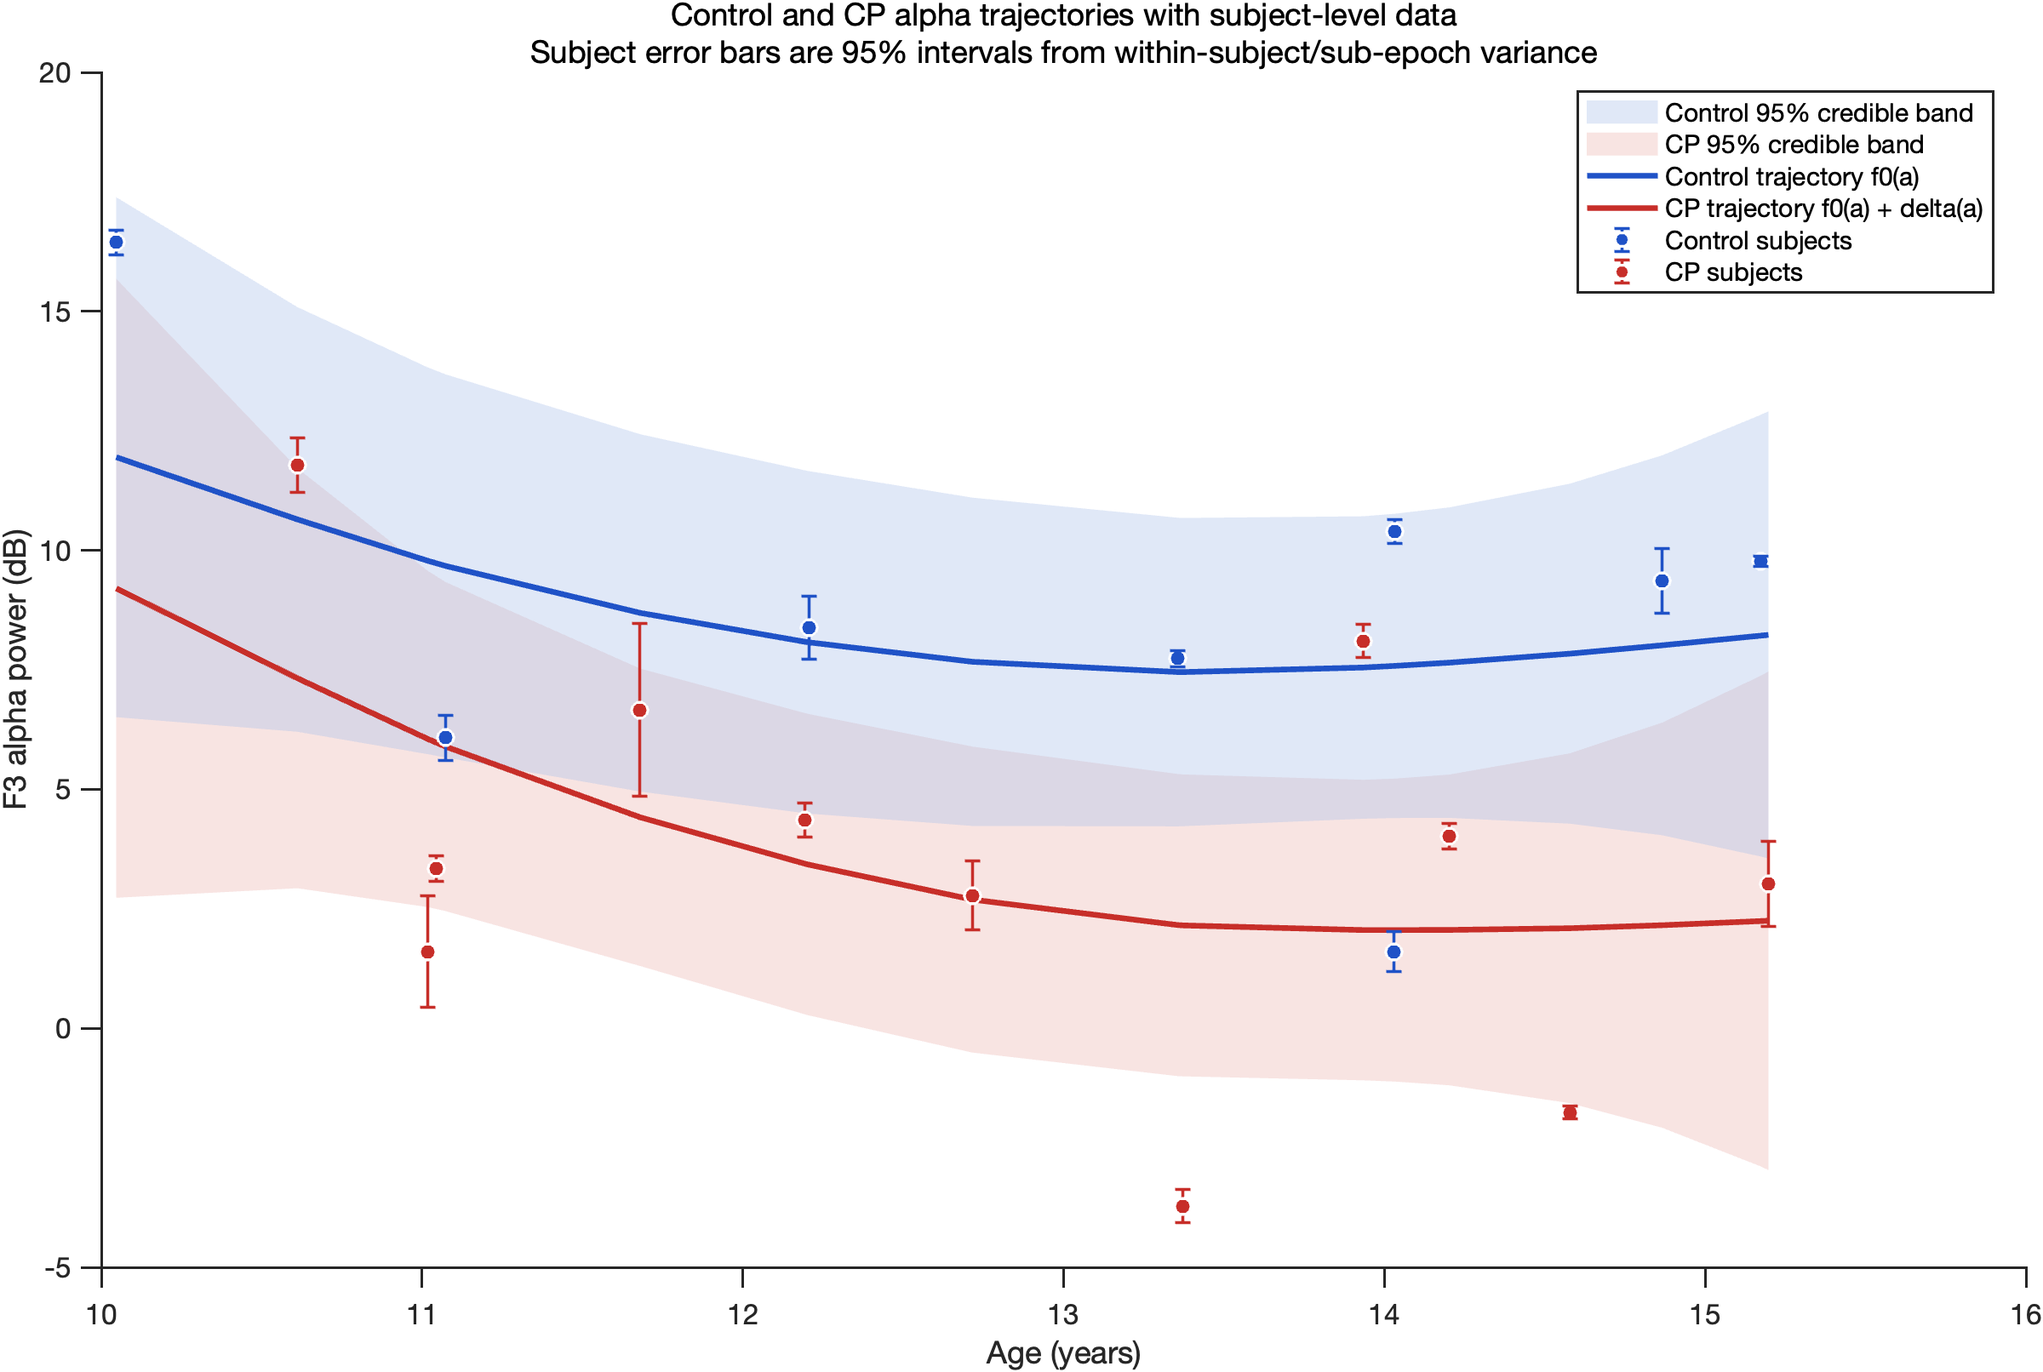
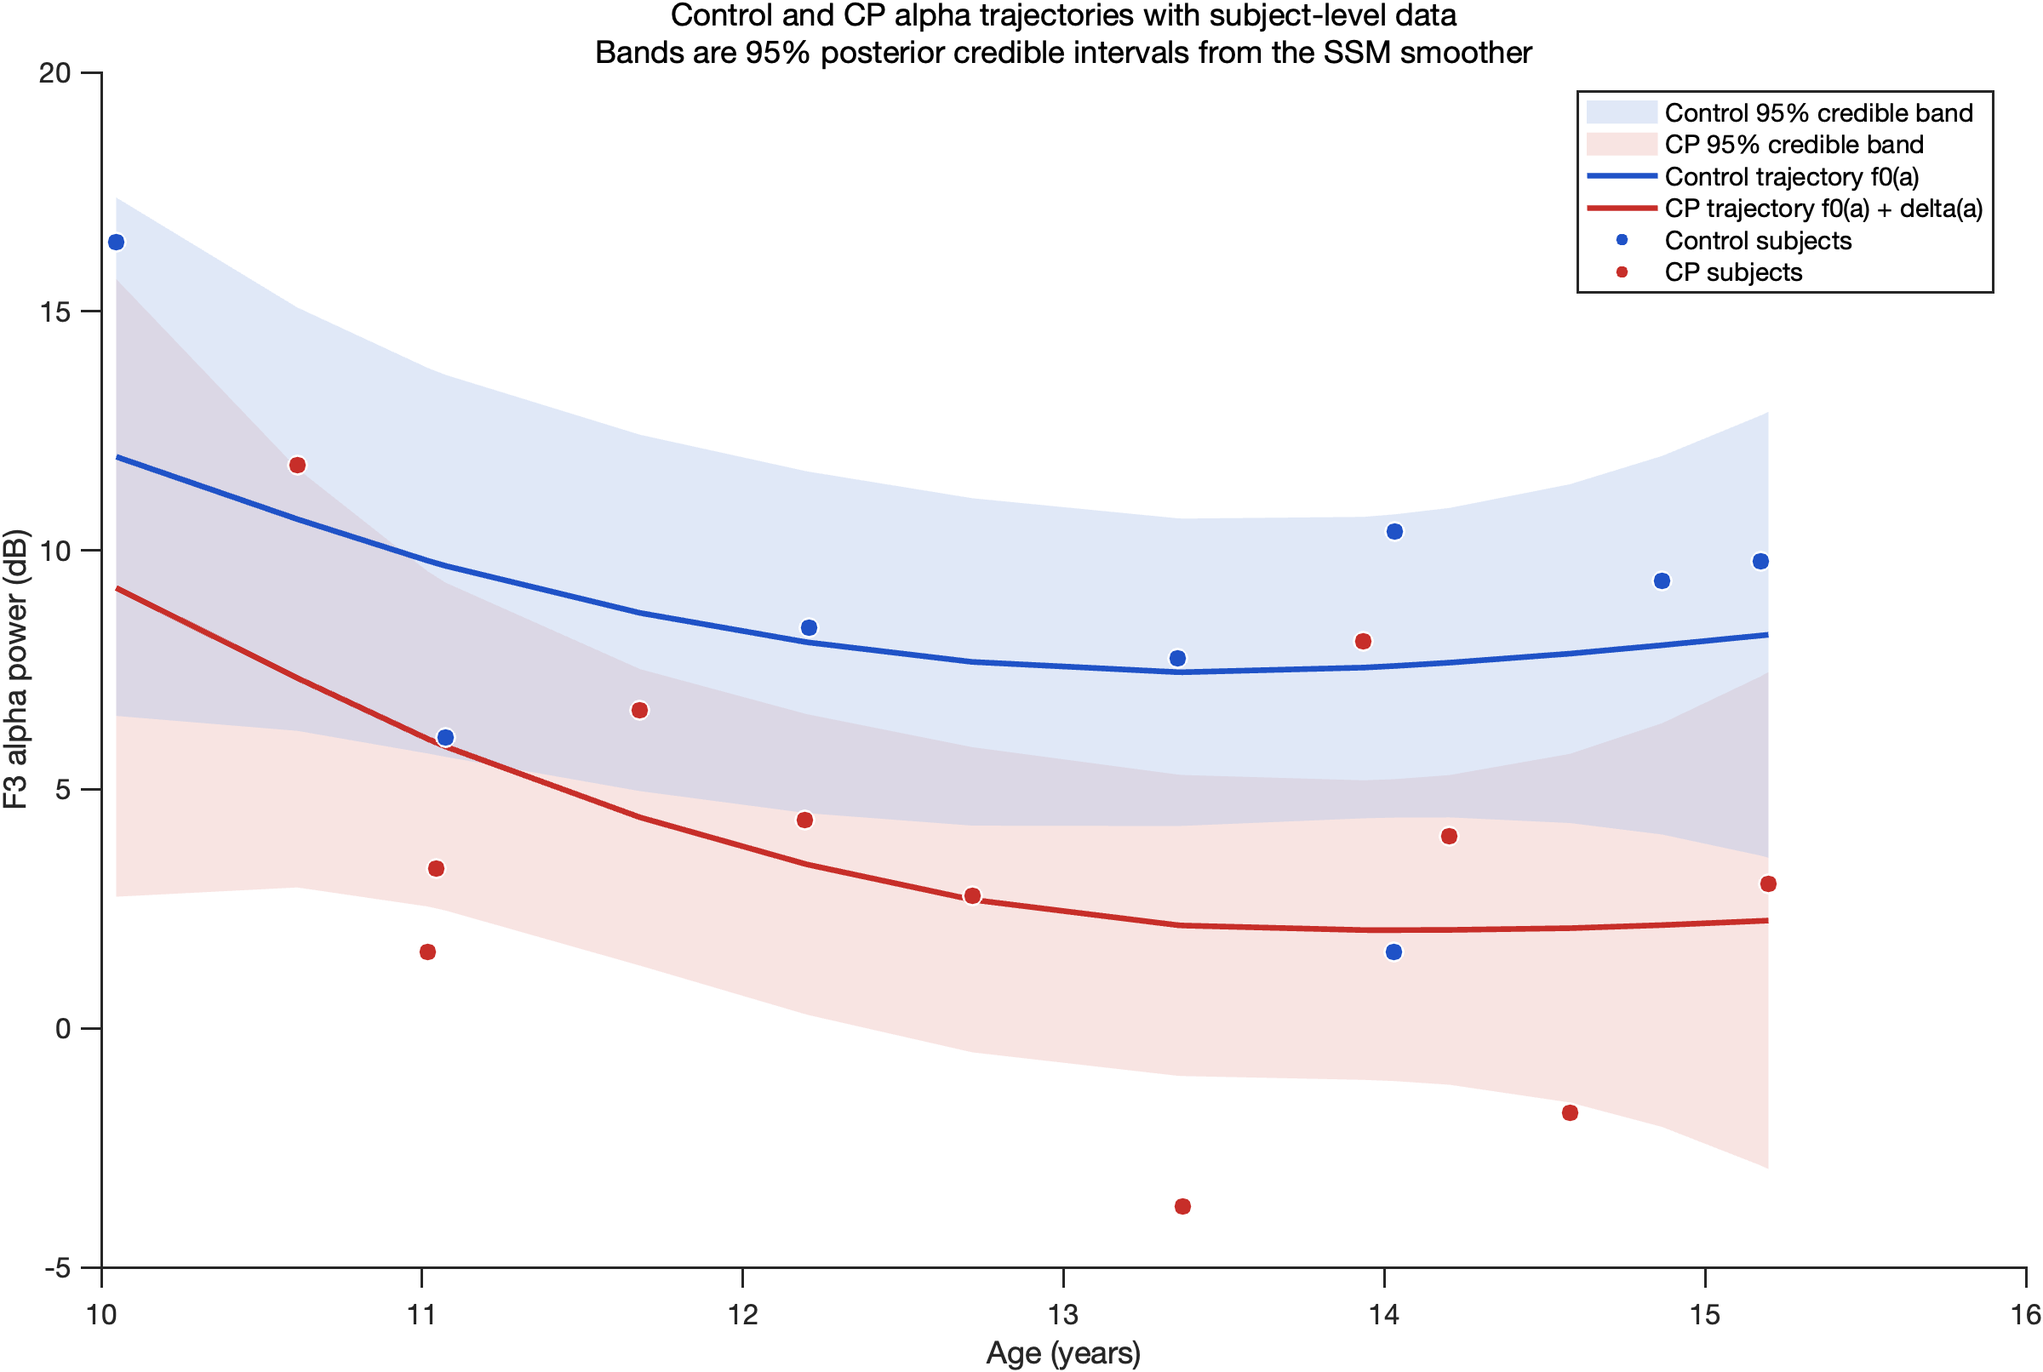
Refine sigmaBio estimator and trajectory plots

Changed region(s): [[0.25, 0.031, 0.7812, 0.062], [0.4688, 0.6514, 0.5, 0.6824], [0.375, 0.4342, 0.4062, 0.4653]]

diff --git a/2_state_space_model/estimate_sigmaBio_from_subepochs.m b/2_state_space_model/estimate_sigmaBio_from_subepochs.m
@@ -3,19 +3,21 @@ function [sigmaBioFixed, diagnostics] = estimate_sigmaBio_from_subepochs(subepoc
 %
 % This helper uses the 76-row 4 x 30 s sub-epoch alpha table to estimate a
 % fixed subject-level variance component for the SSM. It first collapses each
-% subject to a mean alpha value, removes a simple group-specific age trend,
-% then subtracts the MFDB contribution to the variance of each subject mean.
+% subject to a mean alpha value, then estimates the between-subject variance
+% under one of several explicit estimator choices.
 %
 % The returned sigmaBioFixed is intended to be held fixed while EM estimates
 % only q_f0 and q_delta.
 
     parser = inputParser();
     parser.FunctionName = 'estimate_sigmaBio_from_subepochs';
+    addParameter(parser, 'Estimator', "trend_residual_sem", @(x) isstring(x) || ischar(x));
     addParameter(parser, 'TrendModel', "linear", @(x) isstring(x) || ischar(x));
     addParameter(parser, 'SigmaBioFloor', 0.01, @(x) isnumeric(x) && isscalar(x) && x >= 0);
     addParameter(parser, 'Verbose', true, @(x) islogical(x) || isnumeric(x));
     parse(parser, varargin{:});
     opts = parser.Results;
+    opts.Estimator = lower(string(opts.Estimator));
     opts.TrendModel = lower(string(opts.TrendModel));
     opts.Verbose = logical(opts.Verbose);
 
@@ -29,39 +31,75 @@ function [sigmaBioFixed, diagnostics] = estimate_sigmaBio_from_subepochs(subepoc
 
     subepochTable = standardize_subepoch_table(subepochTable);
     subjectTable = build_subject_summary(subepochTable);
-    residuals = remove_group_age_trend(subjectTable, opts.TrendModel);
+    [varianceSource, varianceDescription, residuals] = ...
+        make_sigma_bio_variance_source(subjectTable, opts);
 
-    validResiduals = residuals(isfinite(residuals));
-    if numel(validResiduals) < 4
-        error('Need at least 4 valid subject residuals to estimate sigmaBio.');
+    validVarianceSource = varianceSource(isfinite(varianceSource));
+    if numel(validVarianceSource) < 4
+        error('Need at least 4 valid subject values to estimate sigmaBio.');
     end
 
-    empiricalVarianceOfSubjectMeans = var(validResiduals, 0);
-    meanMeasurementVarianceOfSubjectMean = mean(subjectTable.measurementVarianceOfMean, 'omitnan');
-    sigmaBioRaw = empiricalVarianceOfSubjectMeans - meanMeasurementVarianceOfSubjectMean;
+    empiricalVarianceOfSubjectMeans = var(validVarianceSource, 0);
+    measurementVarianceToSubtract = choose_measurement_variance(subjectTable, opts.Estimator);
+    sigmaBioRaw = empiricalVarianceOfSubjectMeans - measurementVarianceToSubtract;
     sigmaBioFixed = max(sigmaBioRaw, opts.SigmaBioFloor);
 
     subjectTable.trendResidual_dB = residuals;
 
     diagnostics = struct();
     diagnostics.sourceFile = sourceFile;
+    diagnostics.estimator = opts.Estimator;
     diagnostics.trendModel = opts.TrendModel;
+    diagnostics.varianceDescription = varianceDescription;
     diagnostics.subjectTable = subjectTable;
     diagnostics.empiricalVarianceOfSubjectMeans = empiricalVarianceOfSubjectMeans;
-    diagnostics.meanMeasurementVarianceOfSubjectMean = meanMeasurementVarianceOfSubjectMean;
+    diagnostics.meanMeasurementVarianceOfSubjectMean = measurementVarianceToSubtract;
     diagnostics.sigmaBioRaw = sigmaBioRaw;
     diagnostics.sigmaBioFixed = sigmaBioFixed;
     diagnostics.sigmaBioFloor = opts.SigmaBioFloor;
 
     if opts.Verbose
         fprintf('Fixed sigmaBio estimate from sub-epochs\n');
+        fprintf('  estimator: %s\n', opts.Estimator);
         fprintf('  trend model: %s\n', opts.TrendModel);
-        fprintf('  empirical variance of subject means after trend: %.6f dB^2\n', ...
+        fprintf('  variance source: %s\n', varianceDescription);
+        fprintf('  empirical variance of subject source: %.6f dB^2\n', ...
             empiricalVarianceOfSubjectMeans);
-        fprintf('  mean MFDB variance of subject mean: %.6f dB^2\n', ...
-            meanMeasurementVarianceOfSubjectMean);
+        fprintf('  variance subtracted: %.6f dB^2\n', measurementVarianceToSubtract);
         fprintf('  raw sigmaBio: %.6f dB^2\n', sigmaBioRaw);
         fprintf('  fixed sigmaBio: %.6f dB^2\n', sigmaBioFixed);
+    end
+end
+
+function [varianceSource, varianceDescription, residuals] = ...
+        make_sigma_bio_variance_source(subjectTable, opts)
+    residuals = remove_group_age_trend(subjectTable, opts.TrendModel);
+
+    switch opts.Estimator
+        case {"trend_residual_mfdb", "trend_residual_sem"}
+            varianceSource = residuals;
+            varianceDescription = "group-age trend residuals";
+
+        case "between_only"
+            varianceSource = subjectTable.subjectMeanAlpha_dB;
+            varianceDescription = "raw subject means, no group or age trend removed";
+
+        otherwise
+            error(['Estimator must be "trend_residual_sem", "trend_residual_mfdb", ' ...
+                'or "between_only".']);
+    end
+end
+
+function measurementVariance = choose_measurement_variance(subjectTable, estimator)
+    switch estimator
+        case "trend_residual_mfdb"
+            measurementVariance = mean(subjectTable.measurementVarianceOfMean, 'omitnan');
+
+        case {"trend_residual_sem", "between_only"}
+            measurementVariance = mean(subjectTable.empiricalSemVariance, 'omitnan');
+
+        otherwise
+            error('Unknown sigmaBio estimator "%s".', estimator);
     end
 end
 
@@ -84,11 +122,11 @@ function subjectTable = build_subject_summary(subepochTable)
     [G, subjectIDs] = findgroups(subepochTable.subjectID);
     nSubjects = numel(subjectIDs);
 
-    subjectTable = table('Size', [nSubjects, 9], ...
-        'VariableTypes', {'string','string','double','double','double','double','double','double','double'}, ...
+    subjectTable = table('Size', [nSubjects, 10], ...
+        'VariableTypes', {'string','string','double','double','double','double','double','double','double','double'}, ...
         'VariableNames', {'subjectID','groupLabel','ageYears','nSubEpochs','subjectMeanAlpha_dB', ...
         'subjectAlphaSD_dB','subjectAlphaRange_dB','meanSubepochMfdbVariance', ...
-        'measurementVarianceOfMean'});
+        'measurementVarianceOfMean','empiricalSemVariance'});
 
     for i = 1:nSubjects
         rows = G == i;
@@ -106,6 +144,11 @@ function subjectTable = build_subject_summary(subepochTable)
         subjectTable.subjectAlphaRange_dB(i) = max(thisAlpha) - min(thisAlpha);
         subjectTable.meanSubepochMfdbVariance(i) = mean(thisVar, 'omitnan');
         subjectTable.measurementVarianceOfMean(i) = sum(thisVar, 'omitnan') / (nRows ^ 2);
+        if numel(validAlpha) > 1
+            subjectTable.empiricalSemVariance(i) = var(validAlpha, 0) / numel(validAlpha);
+        else
+            subjectTable.empiricalSemVariance(i) = 0;
+        end
     end
 end
 

diff --git a/3_run_analyses/plot_subjects_with_trajectories.m b/3_run_analyses/plot_subjects_with_trajectories.m
@@ -1,9 +1,8 @@
 function plot_subjects_with_trajectories(resultsFile, outputFile)
 %PLOT_SUBJECTS_WITH_TRAJECTORIES Plot data with Control and CP SSM curves.
 %
-% Shows the 19 subject-level alpha values with 95% within-subject/sub-epoch
-% error bars, overlaid on the posterior Control trajectory f0(a) and the
-% posterior CP trajectory f0(a) + delta(a).
+% Shows the 19 subject-level alpha values overlaid on the posterior Control
+% trajectory f0(a) and the posterior CP trajectory f0(a) + delta(a).
 
 if nargin < 1 || isempty(resultsFile)
     repoRoot = fileparts(fileparts(mfilename('fullpath')));
@@ -27,14 +26,11 @@ end
 
 trajectory = sortrows(S.primaryResult.trajectory, {'ageYears','subjectID'});
 assert_required_columns(trajectory);
-subjectErrorVariance = get_subject_error_variance(S, trajectory);
 
 ageYears = trajectory.ageYears(:);
 alphaDB = trajectory.alpha_dB(:);
 isCP = strcmpi(trajectory.groupLabel, "CP");
 isControl = ~isCP;
-
-subjectErrorBar = 1.96 * sqrt(max(subjectErrorVariance(:), 0));
 
 controlMean = trajectory.baselineMean_dB(:);
 controlLow = trajectory.baselineCILow_dB(:);
@@ -61,21 +57,15 @@ hControlLine = plot(ax, ageYears, controlMean, '-', 'Color', controlColor, ...
 hCPLine = plot(ax, ageYears, cpMean, '-', 'Color', cpColor, ...
     'LineWidth', 2.4);
 
-hControlSubjects = errorbar(ax, ageYears(isControl), alphaDB(isControl), ...
-    subjectErrorBar(isControl), 'o', ...
-    'Color', controlColor, 'MarkerFaceColor', controlColor, ...
-    'MarkerEdgeColor', 'w', 'MarkerSize', 7, ...
-    'LineWidth', 1.2, 'CapSize', 6);
-hCPSubjects = errorbar(ax, ageYears(isCP), alphaDB(isCP), ...
-    subjectErrorBar(isCP), 'o', ...
-    'Color', cpColor, 'MarkerFaceColor', cpColor, ...
-    'MarkerEdgeColor', 'w', 'MarkerSize', 7, ...
-    'LineWidth', 1.2, 'CapSize', 6);
+hControlSubjects = scatter(ax, ageYears(isControl), alphaDB(isControl), ...
+    65, controlColor, 'filled', 'MarkerEdgeColor', 'w', 'LineWidth', 1);
+hCPSubjects = scatter(ax, ageYears(isCP), alphaDB(isCP), ...
+    65, cpColor, 'filled', 'MarkerEdgeColor', 'w', 'LineWidth', 1);
 
 xlabel(ax, 'Age (years)');
 ylabel(ax, 'F3 alpha power (dB)');
 title(ax, {'Control and CP alpha trajectories with subject-level data', ...
-    'Subject error bars are 95% intervals from within-subject/sub-epoch variance'}, ...
+    'Bands are 95% posterior credible intervals from the SSM smoother'}, ...
     'FontWeight', 'normal');
 legend(ax, [hControlBand, hCPBand, hControlLine, hCPLine, hControlSubjects, hCPSubjects], ...
     {'Control 95% credible band', 'CP 95% credible band', ...
@@ -100,28 +90,6 @@ function assert_required_columns(trajectory)
     if ~isempty(missingColumns)
         error('Trajectory table is missing required columns: %s', strjoin(missingColumns, ', '));
     end
-end
-
-function subjectErrorVariance = get_subject_error_variance(S, trajectory)
-    if isfield(S, 'alphaTable') && ismember('mfdb_var', S.alphaTable.Properties.VariableNames)
-        alphaTable = S.alphaTable;
-        subjectErrorVariance = nan(height(trajectory), 1);
-
-        for i = 1:height(trajectory)
-            matchIdx = find(strcmpi(alphaTable.subjectID, trajectory.subjectID(i)), 1, 'first');
-            if ~isempty(matchIdx)
-                subjectErrorVariance(i) = alphaTable.mfdb_var(matchIdx);
-            end
-        end
-
-        if all(isfinite(subjectErrorVariance))
-            return;
-        end
-    end
-
-    warning(['Using trajectory.observationVariance for subject error bars because ' ...
-        'alphaTable.mfdb_var was not available for every subject.']);
-    subjectErrorVariance = trajectory.observationVariance;
 end
 
 function hBand = plot_ci_band(ax, xVals, ciLow, ciHigh, bandColor, faceAlpha)

diff --git a/3_run_analyses/run_ssm_no_resampling_matrix.m b/3_run_analyses/run_ssm_no_resampling_matrix.m
@@ -23,6 +23,7 @@ subepochAlphaTableFile = fullfile(outDir, 'alpha_table_for_ssm_subepochs.csv');
 upstreamSubepochAlphaTableFile = fullfile('/Users/gallo/Documents/MATLAB_Multitaper_Hz_Domain_BTS', ...
     'outputs', 'alpha_table_for_ssm_subepochs.csv');
 
+sigmaBioEstimator = "trend_residual_sem";
 sigmaBioTrendModel = "linear";
 sigmaBioStartForFixedQ = 2.5;
 
@@ -46,6 +47,7 @@ end
 alphaTable = readtable(collapsedAlphaTableFile, 'TextType', 'string');
 subepochTable = readtable(subepochAlphaTableFile, 'TextType', 'string');
 [sigmaBioEmpirical, sigmaBioDiagnostics] = estimate_sigmaBio_from_subepochs(subepochTable, ...
+    'Estimator', sigmaBioEstimator, ...
     'TrendModel', sigmaBioTrendModel, ...
     'SigmaBioFloor', 0.01, ...
     'Verbose', true);
@@ -199,7 +201,7 @@ writetable(summaryTable, summaryFile);
 writetable(allTrajectories, trajectoryFile);
 writetable(profileSurfaceTable, profileSurfaceFile);
 save(matFile, 'runResults', 'summaryTable', 'allTrajectories', 'sigmaBioEmpirical', ...
-    'sigmaBioDiagnostics', 'qInit', 'qF0Grid', 'qDeltaGrid', 'logLikSurface', ...
+    'sigmaBioDiagnostics', 'sigmaBioEstimator', 'qInit', 'qF0Grid', 'qDeltaGrid', 'logLikSurface', ...
     'fixedHeuristicResult', 'emSmoothnessResults', 'emSmoothnessResult', ...
     'emJointResults', 'emJointResult', 'emJointSubepochResults', ...
     'emJointSubepochTrajectory', 'emBiologicalResults', 'emBiologicalResult', ...

diff --git a/3_run_analyses/run_ssm_posterior_no_resampling.m b/3_run_analyses/run_ssm_posterior_no_resampling.m
@@ -25,6 +25,9 @@ collapsedAlphaTableFileName = 'alpha_table_for_ssm_subepochs_collapsed.csv';
 subepochAlphaTableFileName = 'alpha_table_for_ssm_subepochs.csv';
 
 % Fixed sigmaBio estimation from the 76-row sub-epoch table.
+% Options: "trend_residual_sem", "trend_residual_mfdb", "between_only".
+sigmaBioEstimator = "trend_residual_sem";
+
 % Options: "constant", "linear", "quadratic".
 sigmaBioTrendModel = "linear";
 
@@ -68,6 +71,7 @@ fprintf('Collapsed rows: %d | Sub-epoch rows: %d\n', height(alphaTable), height(
 
 %% Step 3: Fixed hyperparameters
 [sigmaBioEstimate, sigmaBioDiagnostics] = estimate_sigmaBio_from_subepochs(subepochTable, ...
+    'Estimator', sigmaBioEstimator, ...
     'TrendModel', sigmaBioTrendModel, ...
     'SigmaBioFloor', 0.01, ...
     'Verbose', true);
@@ -163,7 +167,8 @@ writetable(primaryTrajectory, primaryTrajectoryFile);
 writetable(sensitivitySummary, sensitivitySummaryFile);
 writetable(sigmaBioDiagnostics.subjectTable, sigmaBioSubjectDiagnosticsFile);
 save(matFile, 'primaryResult', 'sensitivityResults', 'sensitivitySummary', ...
-    'sigmaBioEstimate', 'sigmaBioDiagnostics', 'sigmaBioTrendModel', 'qInit', ...
+    'sigmaBioEstimate', 'sigmaBioDiagnostics', 'sigmaBioEstimator', ...
+    'sigmaBioTrendModel', 'qInit', ...
     'primaryQF0', 'primaryQDelta', 'qScaleGrid', 'sigmaBioGrid', ...
     'primaryTrajectory', 'alphaTable', 'subepochTable');
 

diff --git a/3_run_analyses/run_ss_age_diff_em_fixed_sigma.m b/3_run_analyses/run_ss_age_diff_em_fixed_sigma.m
@@ -43,8 +43,10 @@ fprintf('Loaded sub-epoch table: %s\n', subepochTableFile);
 fprintf('Loaded collapsed SSM table: %s\n', collapsedTableFile);
 
 %% Step 2: Estimate fixed sigmaBio from the 76-row table
+sigmaBioEstimator = "trend_residual_sem";
 trendModel = "linear";
 [sigmaBioFixed, sigmaDiagnostics] = estimate_sigmaBio_from_subepochs(subepochTable, ...
+    'Estimator', sigmaBioEstimator, ...
     'TrendModel', trendModel, ...
     'SigmaBioFloor', 0.01, ...
     'Verbose', true);

diff --git a/RESULTS_SUMMARY.md b/RESULTS_SUMMARY.md
@@ -29,12 +29,12 @@ resampled. The runs differ only in how the hyperparameters are chosen.
 
 | Strategy name | What it does | q_f0 | q_delta | sigmaBio | Converged | Boundary | Zero excluded age range |
 | --- | --- | ---: | ---: | ---: | --- | --- | --- |
-| Fixed-Heuristic | Fixed qInit, fixed empirical sigmaBio | 2.97 | 2.97 | 14.51 | yes | no | 12.20-14.87 yr |
-| EM-Smoothness | EM q, fixed empirical sigmaBio | 14.04 | 25.54 | 14.51 | no | no | 13.93-14.87 yr |
+| Fixed-Heuristic | Fixed qInit, fixed empirical sigmaBio | 2.97 | 2.97 | 14.40 | yes | no | 12.20-14.87 yr |
+| EM-Smoothness | EM q, fixed empirical sigmaBio | 29.62 | 31.79 | 14.40 | no | no | 13.93-14.87 yr |
 | EM-Joint | Joint EM, collapsed 19-row table | 15.26 | 36.52 | 15.75 | no | no | 14.03-14.58 yr |
 | EM-Joint-Subepoch | Joint EM, direct 76-row sub-epoch table | 1e6 | 1e6 | 1.32 | yes | yes | diagnostic failure |
 | EM-Biological | Fixed qInit, EM sigmaBio | 2.97 | 2.97 | 15.72 | yes | no | 12.20-14.87 yr |
-| Profile-Likelihood | Profile-likelihood q, fixed empirical sigmaBio | 3.86 | 0.01 | 14.51 | yes | yes | 12.20-15.20 yr |
+| Profile-Likelihood | Profile-likelihood q, fixed empirical sigmaBio | 3.86 | 0.01 | 14.40 | yes | yes | 12.20-15.20 yr |
 
 Interpretation:
 
@@ -60,7 +60,7 @@ Interpretation:
   primary fixed-hyperparameter delta(a) posterior mean and credible band.
 - [subjects_with_trajectories.png](4_figures/subjects_with_trajectories.png):
   Control and CP posterior trajectories with the 19 subject-level alpha values
-  and their within-subject/sub-epoch error bars overlaid.
+  overlaid.
 - [sensitivity_all_six_overlay.png](4_figures/sensitivity_all_six_overlay.png):
   posterior means from all six no-resampling runs.
 - [sensitivity_all_six_bands.png](4_figures/sensitivity_all_six_bands.png):

diff --git a/4_figures/README.md b/4_figures/README.md
@@ -35,9 +35,8 @@ whole age range, with the band excluding zero between about ages 12.2 and
 
 ## subjects_with_trajectories.png
 
-The 19 subjects plotted as points with within-subject/sub-epoch error bars,
-overlaid against the posterior Control trajectory `f0(a)` and CP trajectory
-`f0(a) + delta(a)`.
+The 19 subjects plotted as points, overlaid against the posterior Control
+trajectory `f0(a)` and CP trajectory `f0(a) + delta(a)`.
 Takeaway: this is the concrete data-plus-model view. The Control trajectory is
 visibly higher than the CP trajectory, while the subject points show which
 children sit above or below their group's posterior expectation.

diff --git a/METHODS.md b/METHODS.md
@@ -57,7 +57,11 @@ V_k = mfdb_var_k + sigmaBio
 ```
 
 `mfdb_var_k` captures uncertainty in the subject alpha estimate. `sigmaBio`
-captures residual between-subject biological variability.
+captures residual between-subject biological variability. In the primary
+workflow, `sigmaBio` is estimated from group-specific age-trend residuals in
+the 4 x 30 s sub-epoch table, subtracting each subject's empirical sub-epoch
+standard error of the mean contribution. This keeps the biological variance
+estimate separate from within-recording measurement variability.
 
 ## Smoothness Prior
 
